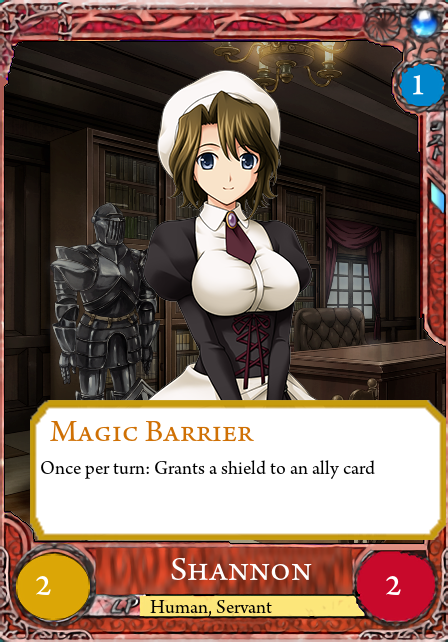
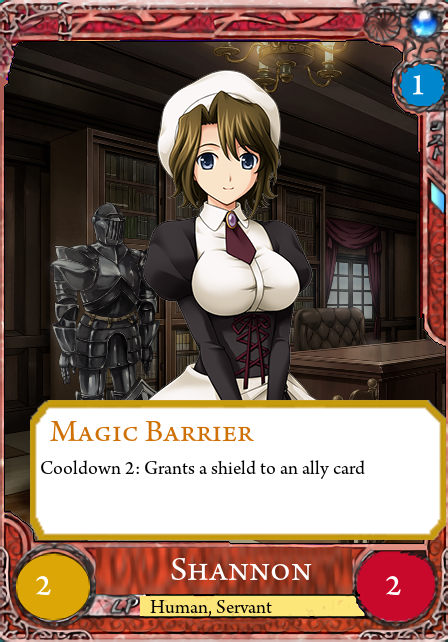
Kinzo, Ange and Battler Rewards

Changed region(s): [[0.0938, 0.7165, 0.8438, 0.7477]]

diff --git a/Assets/Scripts/Deck.cs b/Assets/Scripts/Deck.cs
@@ -201,7 +201,7 @@ public class Deck
 
     public void GohdaCard()
     {
-        Card Gohda = new Card(2, 10, 4, CardEffects.GohdaEffect, "Gohda", new List<TagType> { TagType.Human, TagType.Servant }, true, false, 1);
+        Card Gohda = new Card(3, 10, 4, CardEffects.GohdaEffect, "Gohda", new List<TagType> { TagType.Human, TagType.Servant }, true, false, 1);
         AddCardRegister(Gohda);
         if (EffectListener.INSTANCE != null)
         {
@@ -230,7 +230,7 @@ public class Deck
     }
     public void ShannonCard()
     {
-        AddCardRegister(new Card(1, 2, 2, CardEffects.ShannonEffect, "Shannon", new List<TagType> { TagType.Human, TagType.Servant }, false, true, 1, requiresAI: true));
+        AddCardRegister(new Card(1, 2, 2, CardEffects.ShannonEffect, "Shannon", new List<TagType> { TagType.Human, TagType.Servant }, false, true, 2, requiresAI: true));
     }
 
     public void RudolfCard()
@@ -501,6 +501,85 @@ public class Deck
         AddCardToInventory(reward);
     }
 
+    public static void KinzoReward()
+    {
+
+        int rn = new Random().Next(1, 31);
+        CardsByID reward;
+        List<CardsByID> possibleRewards;
+        if (rn <= 5)
+        {
+            possibleRewards = new List<CardsByID> { CardsByID.Gohda };
+            int rnpr = new Random().Next(0, possibleRewards.Count);
+            reward = possibleRewards[rnpr];
+        }
+        else if (rn <= 15)
+        {
+            possibleRewards = new List<CardsByID> { CardsByID.Genji, CardsByID.Nanjo};
+            int rnpr = new Random().Next(0, possibleRewards.Count);
+            reward = possibleRewards[rnpr];
+        }
+        else
+        {
+            possibleRewards = new List<CardsByID> { CardsByID.Kanon, CardsByID.Shannon, CardsByID.Kumasawa};
+            int rnpr = new Random().Next(0, possibleRewards.Count);
+            reward = possibleRewards[rnpr];
+        }
+        AddCardToInventory(reward);
+    }
+
+    public static void AngeReward()
+    {
+        int rn = new Random().Next(1, 31);
+        CardsByID reward;
+        List<CardsByID> possibleRewards;
+        if (rn <= 5)
+        {
+            possibleRewards = new List<CardsByID> { CardsByID.MariaBeatrice };
+            int rnpr = new Random().Next(0, possibleRewards.Count);
+            reward = possibleRewards[rnpr];
+        }
+        else if (rn <= 15)
+        {
+            possibleRewards = new List<CardsByID> { CardsByID.Maria, CardsByID.Lucifer };
+            int rnpr = new Random().Next(0, possibleRewards.Count);
+            reward = possibleRewards[rnpr];
+        }
+        else
+        {
+            possibleRewards = new List<CardsByID> { CardsByID.Asmodeus, CardsByID.Beelzebub, CardsByID.Belphegor, CardsByID.Leviathan, CardsByID.Mammon, CardsByID.Satan, CardsByID.Sakutarou };
+            int rnpr = new Random().Next(0, possibleRewards.Count);
+            reward = possibleRewards[rnpr];
+        }
+        AddCardToInventory(reward);
+    }
+
+    public static void BattlerReward()
+    {
+        int rn = new Random().Next(1, 31);
+        CardsByID reward;
+        List<CardsByID> possibleRewards;
+        if (rn <= 5)
+        {
+            possibleRewards = new List<CardsByID> { CardsByID.Natsuhi };
+            int rnpr = new Random().Next(0, possibleRewards.Count);
+            reward = possibleRewards[rnpr];
+        }
+        else if (rn <= 15)
+        {
+            possibleRewards = new List<CardsByID> {CardsByID.Rosa };
+            int rnpr = new Random().Next(0, possibleRewards.Count);
+            reward = possibleRewards[rnpr];
+        }
+        else
+        {
+            possibleRewards = new List<CardsByID> { CardsByID.Rudolf, CardsByID.Kyrie, CardsByID.Eva, CardsByID.George, CardsByID.Jessica, CardsByID.Hideyoshi, CardsByID.Krauss };
+            int rnpr = new Random().Next(0, possibleRewards.Count);
+            reward = possibleRewards[rnpr];
+        }
+        AddCardToInventory(reward);
+    }
+
     public Card FindCardInDeck(string name)
     {
         List<Card> cardsList = this.cards.ToList(); 
@@ -585,9 +664,9 @@ public class Deck
         new Card(3, 12, 6, CardEffects.VirgiliaEffect, "Virgilia", new List<TagType> { TagType.Witch }, false, false, 3),
         new Card(2, 12, 2, CardEffects.GenjiEffect, "Genji", new List<TagType> { TagType.Servant, TagType.Human }, true, false, 0),
         new Card(1, 2, 2, CardEffects.KumasawaEffect, "Kumasawa", new List<TagType> { TagType.Human, TagType.Servant }, false, false, 2),
-        new Card(2, 10, 4, CardEffects.GohdaEffect, "Gohda", new List<TagType> { TagType.Human, TagType.Servant }, true, false, 1),
+        new Card(3, 10, 4, CardEffects.GohdaEffect, "Gohda", new List<TagType> { TagType.Human, TagType.Servant }, true, false, 1),
         new Card(1, 6, 6, CardEffects.KanonEffect, "Kanon", new List<TagType> { TagType.Human, TagType.Servant }, true, false, 0),
-        new Card(1, 2, 2, CardEffects.ShannonEffect, "Shannon", new List<TagType> { TagType.Human, TagType.Servant }, false, true, 1, requiresAI: true),
+        new Card(1, 2, 2, CardEffects.ShannonEffect, "Shannon", new List<TagType> { TagType.Human, TagType.Servant }, false, true, 2, requiresAI: true),
         new Card(2, 10, 4, CardEffects.NanjoEffect, "Nanjo", new List<TagType> { TagType.Human }, false, true, 1, requiresAI: true),
         new Card(2, 4, 1, CardEffects.MariaEffect, "Maria", new List<TagType> { TagType.Human }, true, false, 0),
         new Card(3, 8, 6, CardEffects.MariaBeatriceEffect, "MariaBeatrice", new List<TagType> { TagType.Witch }, false, false, 0),

diff --git a/Assets/Scripts/Game.cs b/Assets/Scripts/Game.cs
@@ -657,6 +657,18 @@ public class Game : MonoBehaviour
         {
             Deck.LambdaReward();
         }
+        else if(EnemyLeader == "Kinzo")
+        {
+            Deck.KinzoReward();
+        }
+        else if (EnemyLeader == "Ange")
+        {
+            Deck.AngeReward();
+        }
+        else if (EnemyLeader == "Battler")
+        {
+            Deck.BattlerReward();
+        }
 
         int victories = PlayerPrefs.GetInt(EnemyLeader + "Victories");
         PlayerPrefs.SetInt(EnemyLeader + "Victories", victories + 1);
